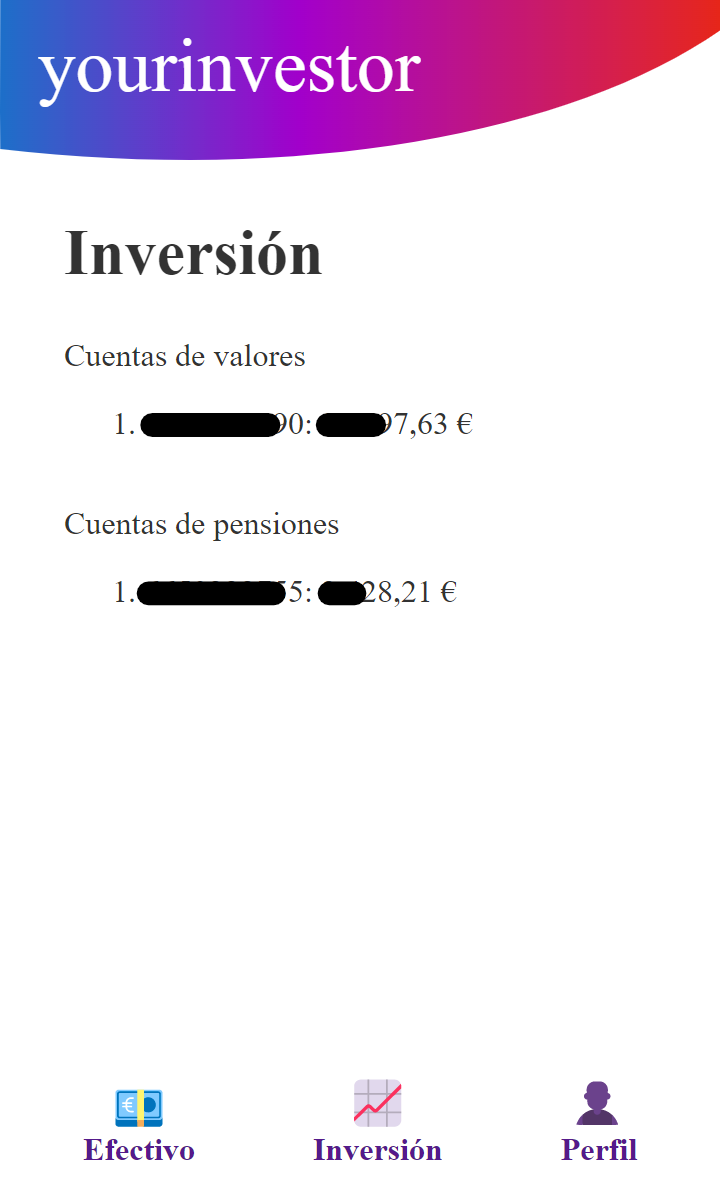
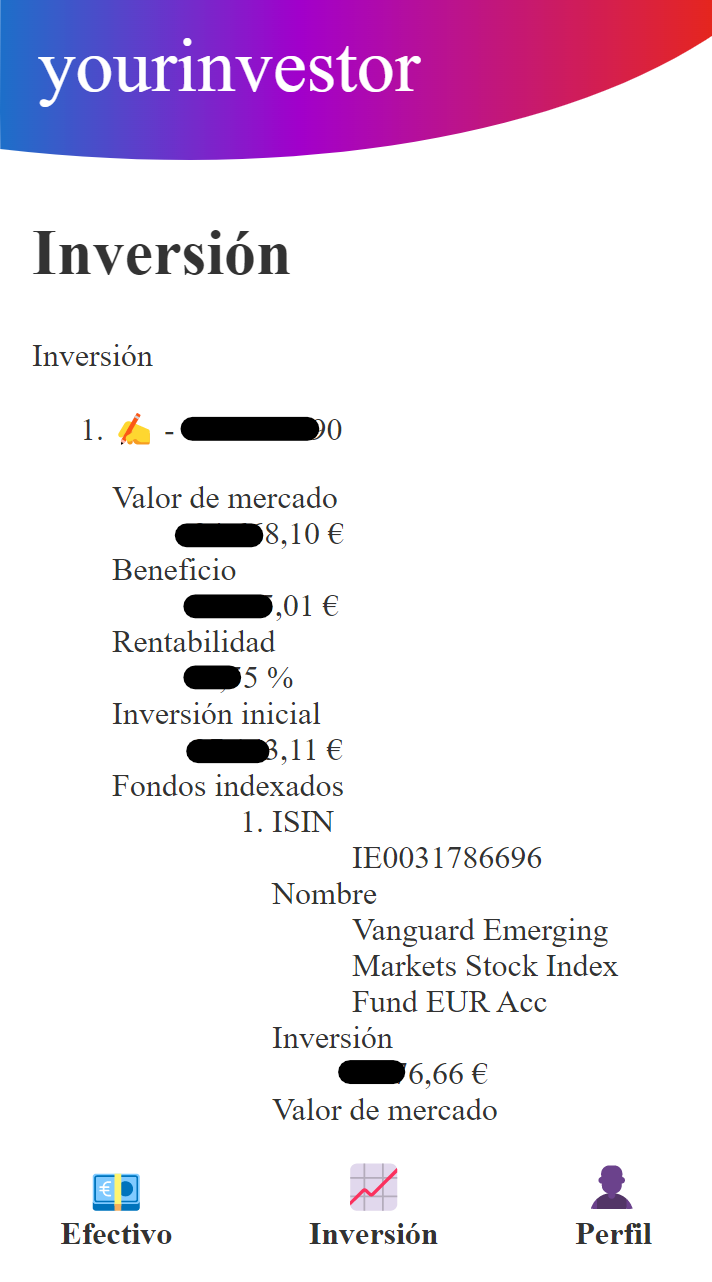
Add indexed investments

diff --git a/web/src/pages/investments.tsx b/web/src/pages/investments.tsx
@@ -1,16 +1,18 @@
 import { Stack } from "../common/layout";
 import { PageContent } from "../common/page-content";
+import { useInvestmentsContext } from "../investments-context";
 import { useResumeContext } from "../resume-context";
-import { formatMoney } from "../utils";
+import { formatMoney, formatPercentage } from "../utils";
 
 export const Investments = () => {
-	const { accounts, error } = useResumeContext();
+	const { accounts, error: resumeError } = useResumeContext();
+	const { investments, error: investmentsError } = useInvestmentsContext();
 
-	if (error) {
-		return <p>{error}</p>;
+	if (resumeError || investmentsError) {
+		return <p>{resumeError ?? investmentsError}</p>;
 	}
 
-	if (!accounts) {
+	if (!accounts && !investments) {
 		return <p>Cargando...</p>;
 	}
 
@@ -18,20 +20,88 @@ export const Investments = () => {
 		<PageContent title="Inversión">
 			<Stack space={32}>
 				<Stack space={16}>
-					{[
-						{
-							title: "Cuentas de valores",
-							accounts: accounts.cuentasValores,
-						},
-						{
-							title: "Cuentas de pensiones",
-							accounts: accounts.cuentasPensiones,
-						},
-					].map(({ title, accounts }) => (
-						<article key={title}>
-							{title}
+					{investments && (
+						<article>
+							Inversión
 							<ol>
-								{accounts.map((account) => (
+								{investments.map(
+									(
+										{
+											aliasCuenta,
+											codigoCuenta,
+											valorMercado,
+											beneficio,
+											rentabilidadTotal,
+											totalInvertido,
+											inversionesCuentaValores,
+										},
+										index
+									) => (
+										<li key={`${aliasCuenta}-${index}`}>
+											{aliasCuenta} - {codigoCuenta}
+											<dl>
+												<dt>Valor de mercado</dt>
+												<dd>{formatMoney(valorMercado)}</dd>
+												<dt>Beneficio</dt>
+												<dd>{formatMoney(beneficio)}</dd>
+												<dt>Rentabilidad</dt>
+												<dd>{formatPercentage(rentabilidadTotal / 100)}</dd>
+												<dt>Inversión inicial</dt>
+												<dd>{formatMoney(totalInvertido)}</dd>
+												{inversionesCuentaValores?.FONDOS_INDEXADOS && (
+													<>
+														<dt>Fondos indexados</dt>
+														<dd>
+															<ol>
+																{inversionesCuentaValores.FONDOS_INDEXADOS.inversionesDtoList.map(
+																	(indexedInvestment) => (
+																		<li key={indexedInvestment.isin}>
+																			<dt>ISIN</dt>
+																			<dd>{indexedInvestment.isin}</dd>
+																			<dt>Nombre</dt>
+																			<dd>
+																				{indexedInvestment.nombreInversion}
+																			</dd>
+																			<dt>Inversión</dt>
+																			<dd>
+																				{formatMoney(
+																					indexedInvestment.importeInicial
+																				)}
+																			</dd>
+																			<dt>Valor de mercado</dt>
+																			<dd>
+																				{formatMoney(indexedInvestment.importe)}
+																			</dd>
+																			<dt>Rentabilidad</dt>
+																			<dd>
+																				{formatPercentage(
+																					indexedInvestment.rentabilidadTotal
+																				)}{" "}
+																				(
+																				{
+																					indexedInvestment.fechaActualizacionRentabilidad
+																				}
+																				)
+																			</dd>
+																		</li>
+																	)
+																)}
+															</ol>
+														</dd>
+													</>
+												)}
+											</dl>
+										</li>
+									)
+								)}
+							</ol>
+						</article>
+					)}
+					{accounts && accounts.cuentasPensiones.length > 0 && (
+						<article>
+							Cuentas de pensiones
+							<ol>
+								{accounts.cuentasPensiones.map((account) => (
 									<li key={account.idCuenta}>
 										{[
 											account.aliasCuenta ?? account.codigoCuenta,
@@ -41,7 +111,7 @@ export const Investments = () => {
 								))}
 							</ol>
 						</article>
-					))}
+					)}
 				</Stack>
 			</Stack>
 		</PageContent>

diff --git a/web/src/api/investments.ts b/web/src/api/investments.ts
@@ -1,0 +1,117 @@
+import { callApi } from "../utils";
+
+interface InvestmentDto {
+	readonly idCuenta: number;
+	readonly tipoProductoEnumInversion: string;
+	readonly codigoTipoProducto: string;
+	readonly codigoMercado: string;
+	readonly isin: string;
+	readonly idFondo: number;
+	readonly nombreInversion: string;
+	readonly importeInicial: number;
+	readonly inversionInicial: number;
+	readonly importe: number;
+	readonly valorMercado: number;
+	readonly importeInversionPlusvalias: number;
+	readonly importePlusvalia: number;
+	readonly rentabilidadPlusvalias: number;
+	readonly beneficio: number;
+	readonly rentabilidadTotal: number;
+	readonly rentabilidadTotalYTD: number;
+	readonly participaciones: number;
+	readonly participacionesDisponibles: number;
+	readonly costeMedio: number;
+	readonly valorLiquidativo: number;
+	readonly valorLiquidativoDivisaOrigen: number;
+	readonly divisaValorLiquidativo: string;
+	readonly rentabilidadYTDFondo: number;
+	readonly rentabilidadYearUnoFondo: number;
+	readonly rentabilidadYearTresFondo: number;
+	readonly rentabilidadYearCincoFondo: number;
+	readonly categoriaMyInvestor: string;
+	readonly urlFichaFondo: string;
+	readonly activosAcciones: null;
+	readonly activosObligaciones: null;
+	readonly activosEfectivo: null;
+	readonly activosOtro: null;
+	readonly rentabilidadYearUno: null;
+	readonly rentabilidadYearTres: null;
+	readonly fechaActualizacionRentabilidad: string;
+	readonly posicionesTipoSaldo: null;
+	readonly tieneErrorPlusvalias: boolean;
+	readonly codigoTipoActivo: "III" | string;
+	readonly tipoProductoBrokerEnum: null;
+	readonly impMinSubsSucesivas: string;
+}
+
+export interface Investment {
+	readonly aliasCuenta: string;
+	readonly uuidCuenta: string;
+	readonly codigoCuentaExterna: string;
+	readonly ibanCuenta: null;
+	readonly ibanOrigen: null;
+	readonly tipoCuentaEnum: "VALORES" | string;
+	readonly importeCuenta: number;
+	readonly activa: boolean;
+	readonly tieneCotitular: boolean;
+	readonly mensajeEnum: null;
+	readonly idCuenta: number;
+	readonly codigoCuenta: string;
+	readonly titulares: null;
+	readonly tipoAperturaCuentaEnum: "UN_TITULAR" | string;
+	readonly idCuentaEfectivo: number;
+	readonly estadoCuentaEnum: null;
+	readonly inversionesCuentaValores: {
+		readonly FONDOS_INDEXADOS: {
+			readonly numProductos: number;
+			readonly importeTotal: number;
+			readonly inversionesDtoList: readonly InvestmentDto[];
+		} | null;
+	} | null;
+	readonly beneficio: number;
+	readonly totalInvertido: number;
+	readonly valorMercado: number;
+	readonly rentabilidadTotal: number;
+	readonly beneficioFondos: number;
+	readonly totalInvertidoFondos: number;
+	readonly valorMercadoFondos: number;
+	readonly rentabilidadTotalFondos: number;
+	readonly beneficioAcciones: number;
+	readonly totalInvertidoAcciones: number;
+	readonly valorMercadoAcciones: number;
+	readonly rentabilidadTotalAcciones: number;
+	readonly traspasosEnTramite: null;
+	readonly saldoCuentaEfectivo: number;
+	readonly retencionesSaldoCuenta: number;
+	readonly importeInversionAlcanzado: null;
+	readonly hechasTodasInversiones: null;
+	readonly tieneQueHacerAportacion: null;
+	readonly inversionPlusvalias: number;
+	readonly plusvalias: number;
+	readonly rentabilidadPlusvalias: number;
+	readonly inversionAcumulada: null;
+	readonly plusvaliasAcumuladas: null;
+	readonly codigoCuentaEfectivoExternaAsociada: string;
+	readonly codigoCuentaEfectivoAsociada: string;
+	readonly ibanCuentaEfectivoAsociada: string;
+	readonly tienenFondosPlusvalias: true;
+	readonly nombreCartera: null;
+	readonly imageCartera: null;
+	readonly tipoPerfilIndexadasEnum: null;
+	readonly idRenta: null;
+}
+
+export type Investments = readonly Investment[];
+
+export const investments = (params?: {
+	onlyWallets?: boolean;
+	onlyActive?: boolean;
+}): Promise<Investments> =>
+	callApi(
+		`protected/inversiones?soloCarteras=${
+			params?.onlyWallets ?? false
+		}&soloActivas=${params?.onlyActive ?? false}`,
+		{
+			method: "get",
+		}
+	);

diff --git a/web/src/app.tsx b/web/src/app.tsx
@@ -6,6 +6,7 @@ import { Cash } from "./pages/cash";
 import * as styles from "./app.css";
 import { ResumeContextProvider } from "./resume-context";
 import { UserContextProvider } from "./user-context";
+import { InvestmentsContextProvider } from "./investments-context";
 
 const sections = [
 	{
@@ -34,15 +35,17 @@ export const App = () => (
 			<BrandHeading />
 			<ResumeContextProvider>
 				<UserContextProvider>
-					<Routes>
-						{sections.map(({ path, element }) => (
-							<Route key={path} path={path} element={element} />
-						))}
-						<Route
-							path="/"
-							element={<Navigate to={sections[0].path} replace />}
-						/>
-					</Routes>
+					<InvestmentsContextProvider>
+						<Routes>
+							{sections.map(({ path, element }) => (
+								<Route key={path} path={path} element={element} />
+							))}
+							<Route
+								path="/"
+								element={<Navigate to={sections[0].path} replace />}
+							/>
+						</Routes>
+					</InvestmentsContextProvider>
 				</UserContextProvider>
 			</ResumeContextProvider>
 		</div>

diff --git a/web/src/investments-context.tsx b/web/src/investments-context.tsx
@@ -1,0 +1,46 @@
+import {
+	createContext,
+	ReactNode,
+	useContext,
+	useEffect,
+	useState,
+} from "react";
+import * as InvestmentsApi from "./api/investments";
+
+interface Context {
+	readonly investments?: InvestmentsApi.Investments;
+	readonly error?: string;
+}
+
+const InvestmentsContext = createContext<Context | null>(null);
+
+type Props = {
+	children: ReactNode;
+};
+
+export const InvestmentsContextProvider = ({ children }: Props) => {
+	const [state, setState] = useState<Context>({});
+
+	useEffect(() => {
+		InvestmentsApi.investments({ onlyActive: true })
+			.then((investments) => {
+				setState({ investments });
+			})
+			.catch((error: Error) => setState({ error: error.message }));
+	}, []);
+
+	return (
+		<InvestmentsContext.Provider value={state}>
+			{children}
+		</InvestmentsContext.Provider>
+	);
+};
+
+export const useInvestmentsContext = () => {
+	const context = useContext(InvestmentsContext);
+	if (!context) {
+		throw new Error("No investments context");
+	}
+
+	return context;
+};

diff --git a/web/src/pages/profile.tsx b/web/src/pages/profile.tsx
@@ -5,7 +5,6 @@ import * as UsersApi from "../api/users";
 import { Button } from "../common/fields";
 import { PageContent } from "../common/page-content";
 import { useUserContext } from "../user-context";
-import { Stack } from "../common/layout";
 
 const useLogout = () => {
 	const navigate = useNavigate();
@@ -19,11 +18,8 @@ const useLogout = () => {
 export const Profile = () => {
 	const logout = useLogout();
 	const { loggedInUserData, clientData, error } = useUserContext();
-	if (error) {
-		return <p>{error}</p>;
-	}
 
-	if (!loggedInUserData) {
+	if (!error && !loggedInUserData) {
 		return <p>Cargando...</p>;
 	}
 

diff --git a/web/src/utils.ts b/web/src/utils.ts
@@ -43,3 +43,9 @@ export const formatMoney = (amount: number) =>
 		useGrouping: true,
 		currency: "EUR",
 	}).format(amount);
+
+export const formatPercentage = (percentage: number) =>
+	new Intl.NumberFormat("es-ES", {
+		style: "percent",
+		maximumFractionDigits: 2,
+	}).format(percentage);
